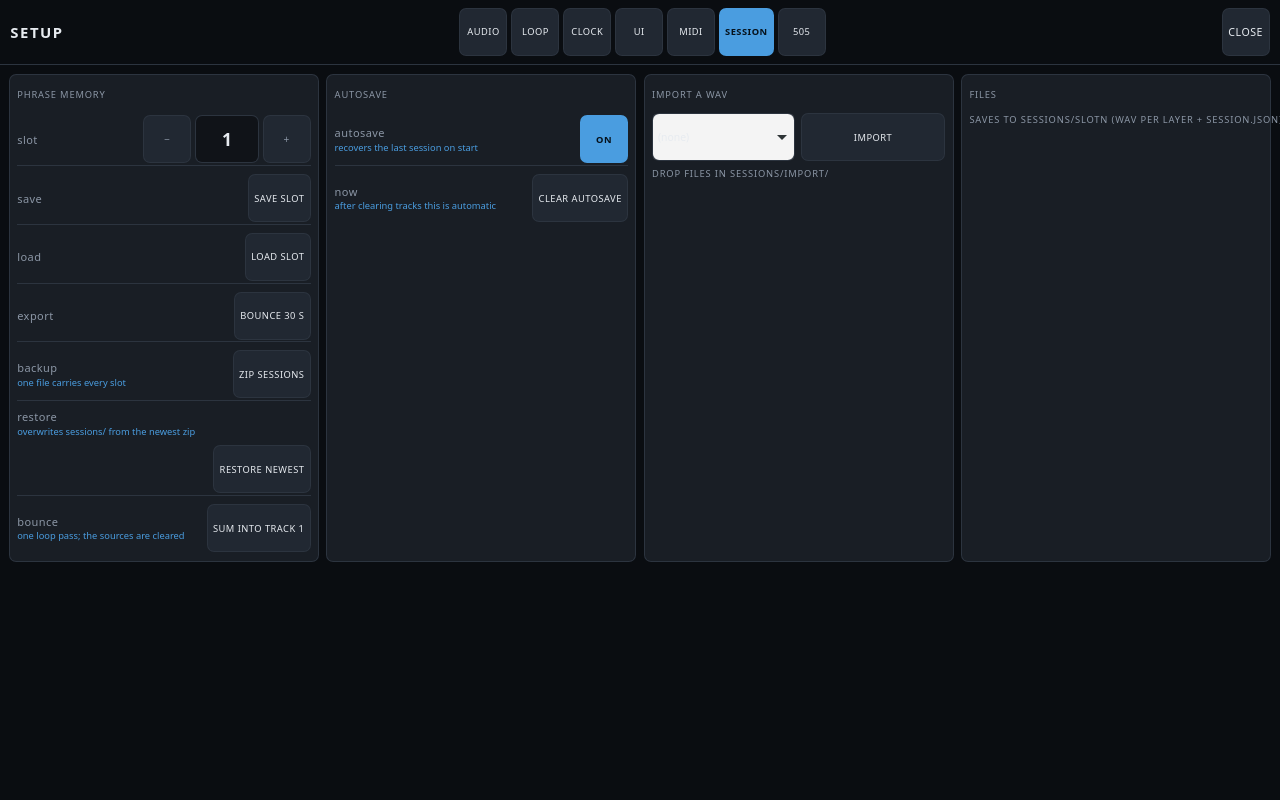
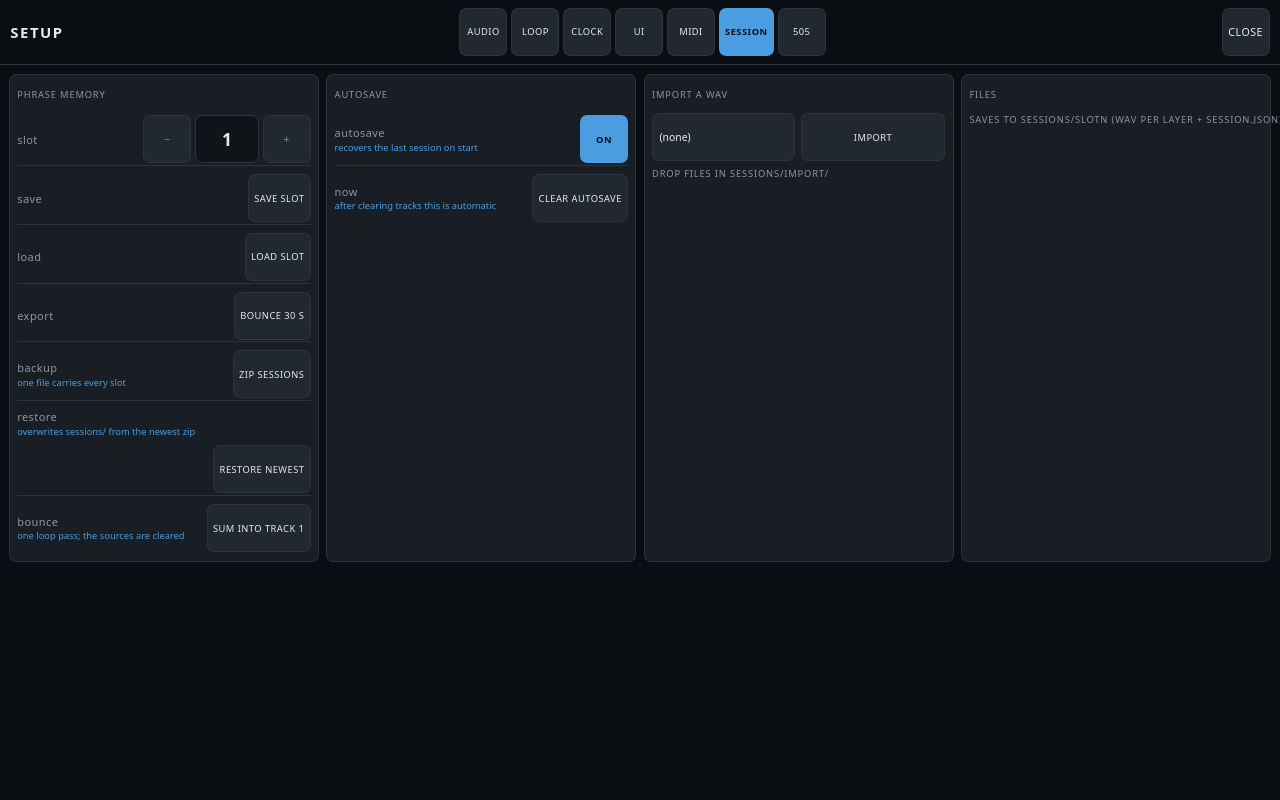
fix(ui): every <select> is dark, including the native popup
Three gaps, found by walking the UI rather than by looking at one screen:

- `.cfgrow select` had appearance: none, but `select.sel` (the VST slot picker
  and the WAV-import row, both outside a settings row) did not -- so those
  stayed white system widgets on the dark drawer.
- `color-scheme: dark` on <html> so the *opened* popup list is dark too; that
  list is a native widget CSS cannot paint.

Now one global `select` rule carries the theme and the two context rules only
adjust size. Verified by enumerating every <select> in the transport, all
seven tabs and the fx drawer: 8 found, 0 with appearance != none or a white
background.

Also makes the AppImage build survive GitHub's repeated 504s on the runtime
download: it reuses `build/appimagetool.runtime` when present. That runtime
must be taken from the *second* `hsqs` offset in an existing AppImage -- the
first one sits inside the runtime itself and produces a stub that dies with
code 11.

Changed region(s): [[0.5, 0.125, 0.625, 0.2188]]

diff --git a/ui/style.css b/ui/style.css
@@ -25,6 +25,9 @@
 }
 
 html {
+  /* native widgets -- above all the <select> popup list, which CSS cannot
+     style -- follow this instead of the light default */
+  color-scheme: dark;
   /* the single scaling knob for the entire UI (settings -> UI -> scale) */
   font-size: calc(clamp(9px, min(1.62vh, 1.05vw), 26px) * var(--scale));
   height: 100%;
@@ -581,10 +584,33 @@ body.no-master #master { display: none; }
 .slot .nm { overflow: hidden; text-overflow: ellipsis; white-space: nowrap; }
 .slot .acts { display: flex; gap: 0.25rem; flex: 0 0 auto; }
 
+/* every <select> is themed, wherever it is used. A <select> without
+   appearance: none paints as a white system widget, and the app has them in
+   settings rows, the VST slot picker and the WAV import row alike. */
+select {
+  -webkit-appearance: none;
+  appearance: none;
+  background: var(--panel-2);
+  color: var(--text);
+  border: 1px solid var(--line);
+  border-radius: var(--radius);
+  font: inherit;
+  min-height: var(--tap);
+  padding: 0 1.4rem 0 0.5rem;
+  touch-action: none;
+}
+select option { background: var(--panel-2); color: var(--text); }
+
 /* native select used outside a settings row (VST slot picker) */
 select.sel {
+  /* same native-widget problem as .cfgrow select: without appearance: none a
+     <select> outside a settings row (VST slot picker, WAV import) paints as a
+     white system control on a dark drawer */
+  -webkit-appearance: none;
+  appearance: none;
   min-height: var(--tap);
   min-width: var(--tap);
+  padding-right: 1.4rem;
   background: var(--panel-2);
   color: var(--text);
   border: 1px solid var(--line);
